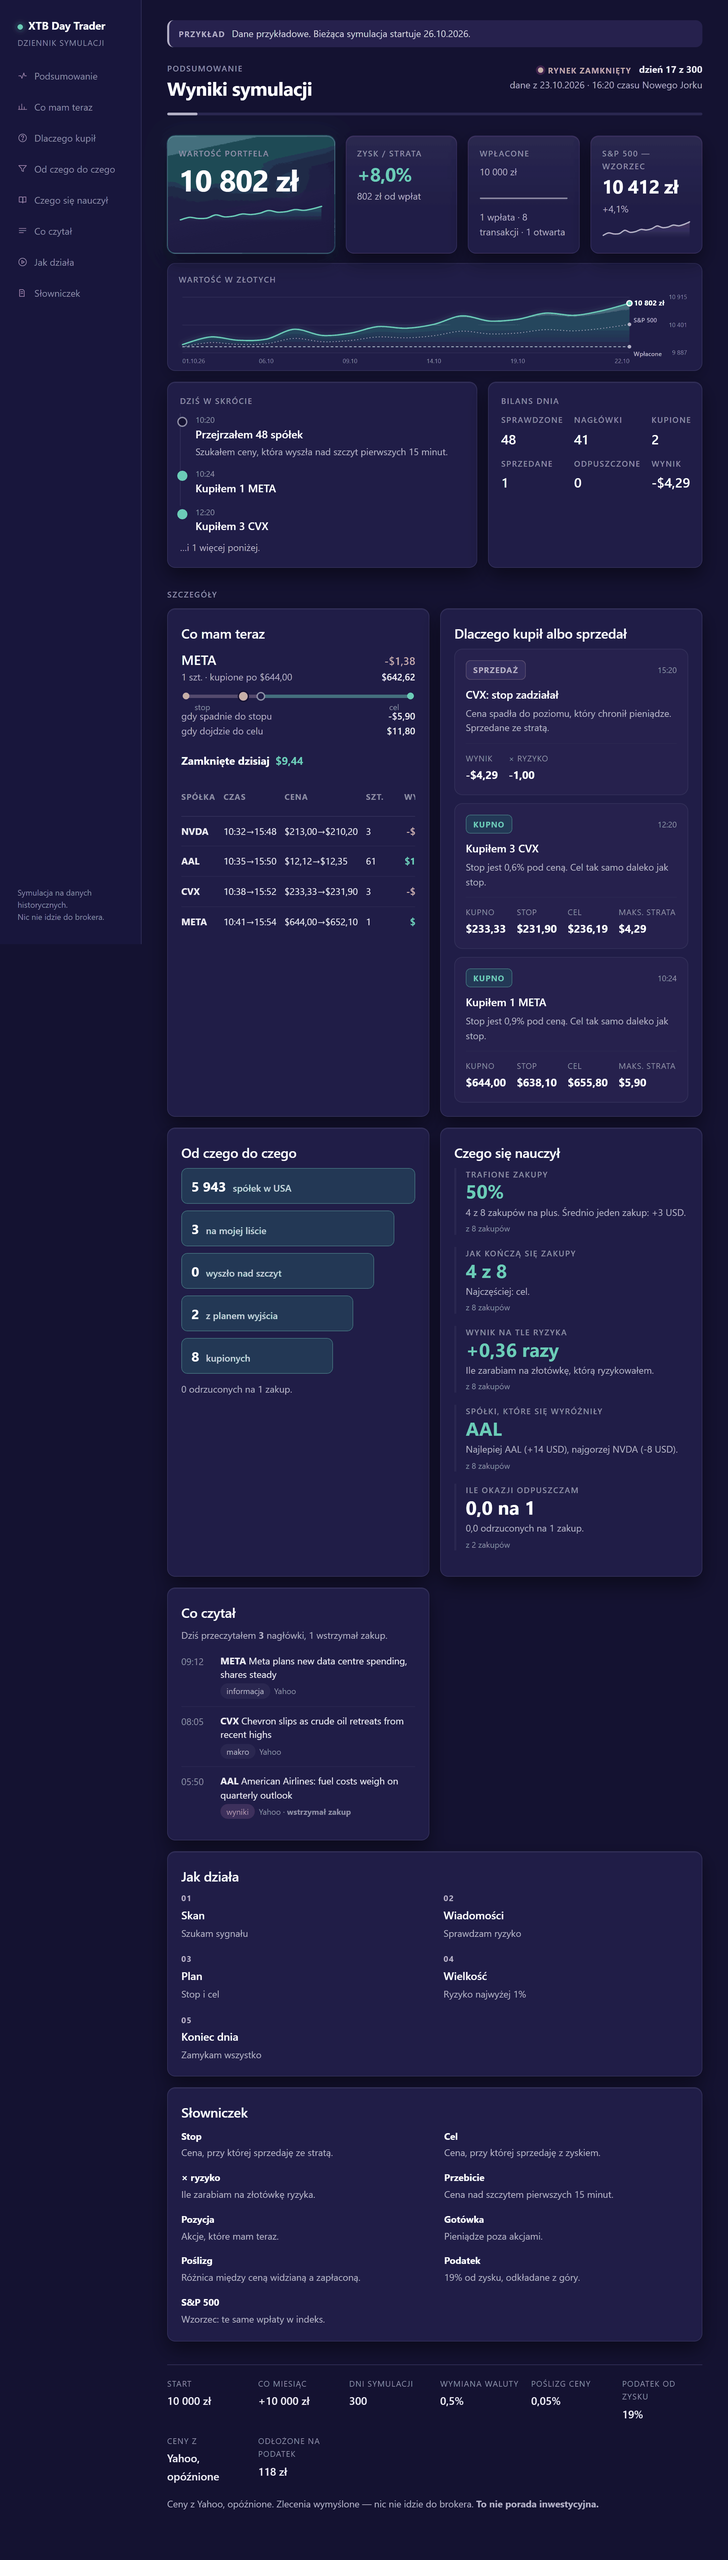
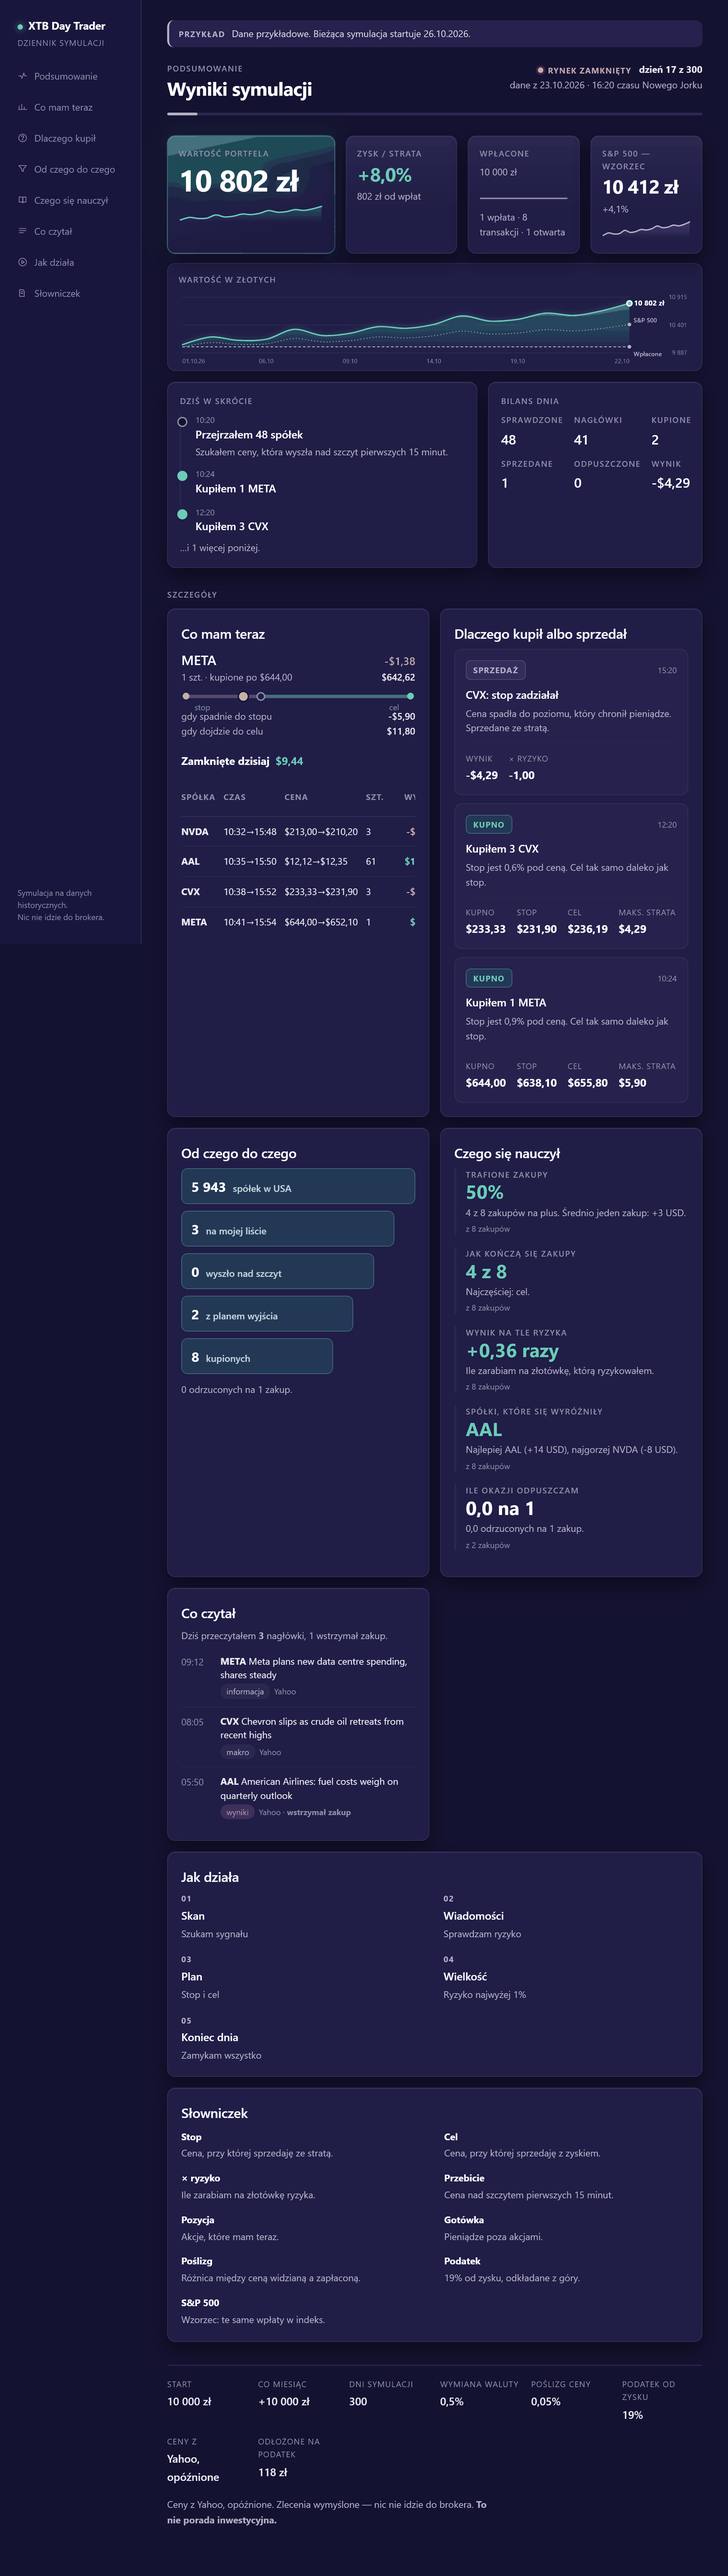
Panel: dlugosc linii stopki ograniczona (64 znaki)

diff --git a/docs/index.html b/docs/index.html
@@ -197,7 +197,7 @@ td.r,th.r{text-align:right;padding-right:0;padding-left:18px}
 .costs div{min-width:0}
 .costs span{display:block;font-size:12px;letter-spacing:.07em;text-transform:uppercase;color:var(--faint)}
 .costs b{display:block;font-size:16px;font-weight:600;margin-top:3px;color:var(--ink2)}
-.fine{font-size:14px;color:var(--muted);margin:6px 0 0}
+.fine{font-size:14px;color:var(--muted);margin:6px 0 0;max-width:64ch}
 footer{margin-top:34px;padding-top:18px;border-top:1px solid var(--line);
   font-size:14px;color:var(--muted);line-height:1.65}
 code{background:var(--soft);padding:1px 6px;border-radius:5px;font-size:14px;color:var(--ink2)}

diff --git a/sim/dashboard.py b/sim/dashboard.py
@@ -223,7 +223,7 @@ td.r,th.r{text-align:right;padding-right:0;padding-left:18px}
 .costs div{min-width:0}
 .costs span{display:block;font-size:12px;letter-spacing:.07em;text-transform:uppercase;color:var(--faint)}
 .costs b{display:block;font-size:16px;font-weight:600;margin-top:3px;color:var(--ink2)}
-.fine{font-size:14px;color:var(--muted);margin:6px 0 0}
+.fine{font-size:14px;color:var(--muted);margin:6px 0 0;max-width:64ch}
 footer{margin-top:34px;padding-top:18px;border-top:1px solid var(--line);
   font-size:14px;color:var(--muted);line-height:1.65}
 code{background:var(--soft);padding:1px 6px;border-radius:5px;font-size:14px;color:var(--ink2)}
